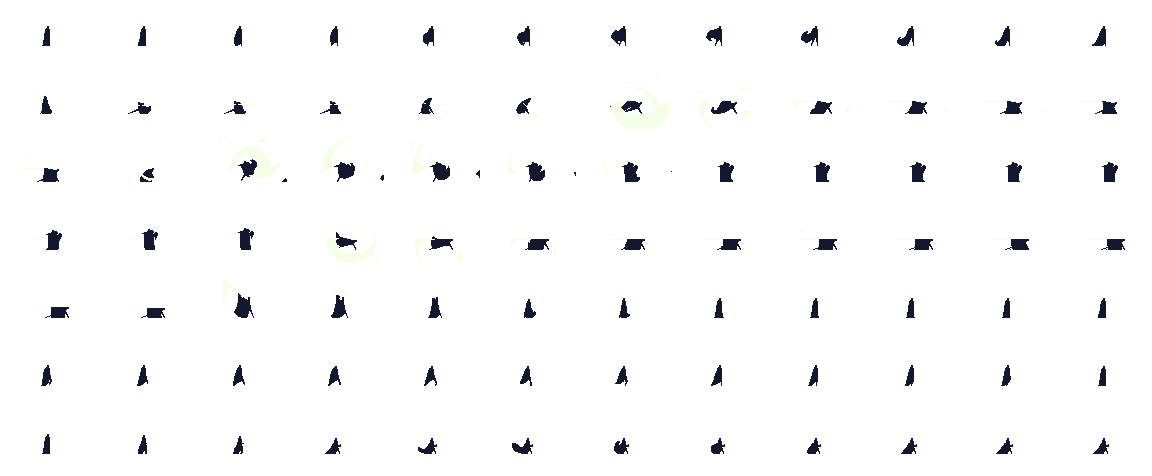
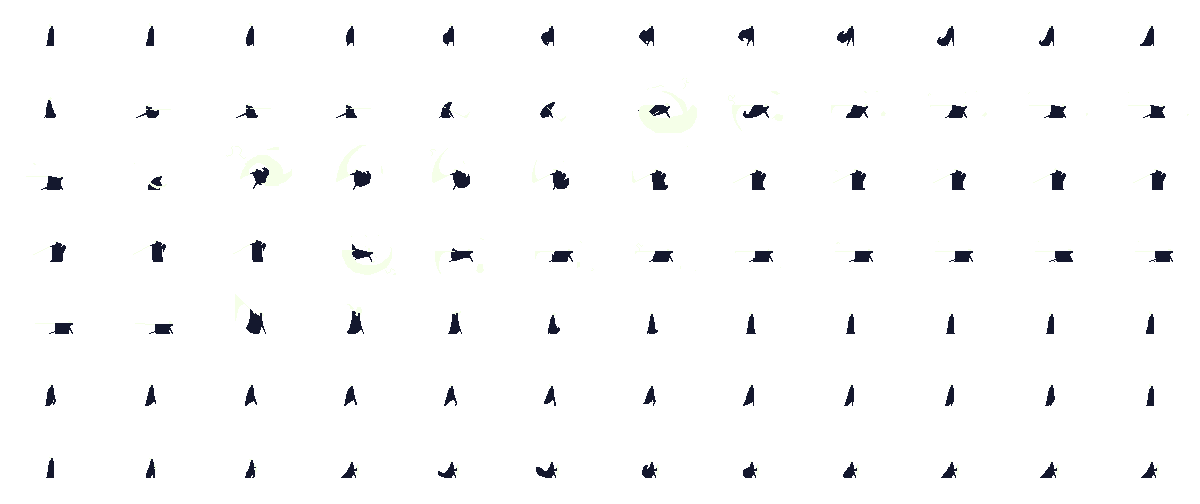
Добавлены текстуры бонусов и их обработка

diff --git a/ConsoleApplication2/Enemy.cpp b/ConsoleApplication2/Enemy.cpp
@@ -1,23 +1,21 @@
 #include "Enemy.h"
 
-Enemy::Enemy() : attackType(0), name(EnemyName::Basic)
+Enemy::Enemy() : name(EnemyName::Basic)
 {
 }
 
 Enemy::Enemy(Texture* texture, Vector2f position, Vector2u imageCount, \
 	float switchTime, EnemyName name, Player* playerPtr, Vector2f size) : \
-	Person(texture, position, size, imageCount, switchTime), attackType(0)
+	Person(texture, position, size, imageCount, switchTime)
 {
 	this->health = HealthMax / 100;
 	this->name = name;
 	this->playerPtr = playerPtr;
 	initEnemy(name);
-
 }
 
 void Enemy::update(float time)
 {
-	updateHealth();
 	playerPtr->getPosition().x > this->getPosition().x ? faceRight = true : faceRight = false;
 	updateAnimation(time / 1.5f, faceRight);
 	body.setPosition(getPosition());
@@ -67,13 +65,15 @@ void Enemy::update(float time)
 	{
 		velocity.x = -personSpeed;
 	}
-	velocity.y += gravity * 10000 * time; // gravity
+	velocity.y += gravity * 10000 * time;
 	sprite.move(velocity * time);
 	changeRanges();
 	if (!life)
 	{
 		attackPower = 0.0f;
 	}
+	updateHealth();
+
 }
 
 void Enemy::updateHealth()
@@ -81,11 +81,8 @@ void Enemy::updateHealth()
 	if (health <= 0 and life)
 	{
 		row = 3;
-		if (getCurrentFrame() == 1)
-		{
-			killing = true;
-		}
-		if (getCurrentFrame() == 0 and killing)
+		killing = true;
+		if (getCurrentFrame() == 7 and killing)
 		{
 			life = false;
 		}
@@ -122,7 +119,7 @@ void Enemy::changeRanges()
 			attackPower = 20.0f;
 			break;
 		default:
-			std::cout << "Unknown enemy -\_/-\n";
+			std::cout << "Unknown enemy\n";
 			break;
 	}
 }
@@ -152,18 +149,22 @@ void Enemy::stoppingRect(const FloatRect& rectangel)
 
 void Enemy::attack()
 {
-	row = 2;
-	if (getCurrentFrame() == 5 and !isDamageTaking)
+	if (!killing)
 	{
-		isDamageTaking = true;
-		if (this->getSprite().getGlobalBounds().intersects(playerPtr->getBody().getGlobalBounds()))
+		row = 2;
+		if (getCurrentFrame() == 5 and !isDamageTaking)
 		{
-			playerPtr->takeDamage(attackPower);
+			isDamageTaking = true;
+			if (this->getAttackRange().intersects(FloatRect(playerPtr->getPosition() - playerPtr->getSize() / 2.0f, \
+				playerPtr->getSize())))
+			{
+				playerPtr->takeDamage(attackPower);
+			}
 		}
-	}
-	if (getCurrentFrame() != 5)
-	{
-		isDamageTaking = false;
+		if (getCurrentFrame() != 5)
+		{
+			isDamageTaking = false;
+		}
 	}
 }
 
@@ -172,55 +173,49 @@ void Enemy::initEnemy(EnemyName name)
 	switch (name) 
 	{
 		case EnemyName::Skeleton:
-			attackType = 0;
 			personSpeed = SkeletonSpeed;
 			gravity = 0.003f;
 			break;
 		case EnemyName::Wizard:
-			attackType = 1;
 			personSpeed = WizardSpeed;
 			gravity = 0.002f;
 			break;
 		case EnemyName::Tank:
-			attackType = 0;
 			personSpeed = TankSpeed;
 			gravity = 0.005f;
 			break;
 		case EnemyName::Dragon:
-			attackType = 1;
 			personSpeed = DragonSpeed;
 			gravity = 0.002f;
 			health = HealthMax * 50 / 100;
 			break;
 		case EnemyName::Ghost:
-			attackType = 1;
 			personSpeed = GhostSpeed;
 			gravity = 0.001f;
 			health = HealthMax * 50 / 100;
 			break;
 		case EnemyName::DarkKnight:
-			attackType = 0;
 			personSpeed = DarkKnightSpeed;
 			gravity = 0.005f;
 			health = HealthMax * 50 / 100;
 			break;
 		default:
-			std::cout << "Unknown enemy -\_/-\n";
+			std::cout << "Unknown enemy\n";
 			break;
 	}
 }
 
 void Enemy::setAttackMoveStopRange(float attackSizeDiff, float moveSizeDiff)
 {
-	attackRange = FloatRect(Vector2f(getPosition().x - getSize().x / 2.0f * attackSizeDiff, \
-		getPosition().y - getSize().y / 2.0f), \
-		Vector2f(getSize().x * attackSizeDiff, getSize().y));
+	attackRange = FloatRect(Vector2f(getPosition().x - getBodySize().x / 2.0f * attackSizeDiff, \
+		getPosition().y - getBodySize().y / 2.0f), \
+		Vector2f(getBodySize().x * attackSizeDiff, getBodySize().y));
 	attackRange.top -= playerPtr->getJumpHeight();
 	attackRange.height += playerPtr->getJumpHeight();
 
-	moveRange = FloatRect(Vector2f(getPosition().x - getSize().x / 2.0f * moveSizeDiff, \
-		getPosition().y - getSize().y / 2.0f), \
-		Vector2f(getSize().x * moveSizeDiff, getSize().y));
+	moveRange = FloatRect(Vector2f(getPosition().x - getBodySize().x / 2.0f * moveSizeDiff, \
+		getPosition().y - getBodySize().y / 2.0f), \
+		Vector2f(getBodySize().x * moveSizeDiff, getBodySize().y));
 	moveRange.top -= playerPtr->getJumpHeight();
 	moveRange.height += playerPtr->getJumpHeight();
 
@@ -238,6 +233,11 @@ FloatRect Enemy::getAttackRange() const
 const EnemyName& Enemy::getName() const
 {
 	return name;
+}
+
+unsigned int Enemy::getRow() const
+{
+	return row;
 }
 
 

diff --git a/ConsoleApplication2/Level.h b/ConsoleApplication2/Level.h
@@ -12,7 +12,6 @@
 #include <unordered_map>
 #include <vector>
 
-enum class ObjectType { Coin, Potion, Bubble, Boot };
 enum class LevelState {Failed, Complete, Passing};
 
 class Level
@@ -30,8 +29,9 @@ public:
 	void checkPortal(Vector2f playerPosition);
 	void checkViewIntersect(View& view, const Vector2u& levelSize);
 	void updatePlatfotmsCollide();
+	void updateBonuses();
 	void updateCoinCollecting();
-	void updateEnemies();
+	void updateEnemies(float time);
 	void updateColliders(View& levelView, Collider& backCollider, Sprite& levelLimitViewSprite, \
 		Sprite& playerAndViewCollideSprite, Collider& playerColliderForView);
 
@@ -50,17 +50,17 @@ public:
 private:
 	void loadTextures(const std::string filePathToCoinTexture, const std::string filePathToBonusTexture, \
 		const std::string filePathToBackGroundTexture);
-	void loadEnemyTextures();
+	template <typename T>
+	void loadInMap(const std::string& path, std::unordered_map<T, Texture>& textures);
 	void initEnemies();
 	void initBackground();
 	void initBonuses();
-	void initCoins();
-	void initPlayer();
 	void initTileMap();
 
 	LevelState levelState;
-	std::vector<Platform> platforms; // size, position
+	std::vector<Platform> platforms;
 	std::vector<Object> coins;
+	std::vector<Object> potions;
 	std::vector<Object> bonuses;
 	std::vector<Enemy> enemies;
 	Object portal;
@@ -81,15 +81,15 @@ private:
 	Vector2u mapSize;
 
 	std::unordered_map<EnemyName, Texture> enemyTextures;
+	std::unordered_map<ObjectType, Texture> bonusTextures;
 	Texture enemyTexture;
-	Texture coinTexture;
 	Texture bonusTexture;
 	Texture backgroundTexture;
-	Texture portalTexture;
 	Texture playerTexture;
 
 	Vector2u levelSize;
 	Vector2f position;
 	int numberOfLevel;
 };
+
 

diff --git a/ConsoleApplication2/Object.cpp b/ConsoleApplication2/Object.cpp
@@ -2,16 +2,20 @@
 
 Object::Object() : Entity()
 {
+	this->objectType = objectType;
 }
 
-Object::Object(Texture* sheetTexture, Vector2f position, Vector2u imageCount, \
-	float switchTime, Vector2f bodySize) : Entity(sheetTexture, position, bodySize, imageCount, switchTime)
+Object::Object(Texture* sheetTexture, Vector2f position, Vector2u imageCount, float switchTime, \
+	ObjectType objectType, Vector2f bodySize) : 
+		Entity(sheetTexture, position, bodySize, imageCount, switchTime)
 {
 	this->sheetTexture = Texture(*sheetTexture);
+	this->objectType = objectType;
 }
 
 void Object::update(float time)
 {
+	updateAnimation(time, true);
 }
 
 void Object::draw(RenderWindow& window)
@@ -30,4 +34,9 @@ void Object::setBonusIconSprite(std::string& path)
 		std::cerr << "Can't load an image";
 	}
 	bonusIconSprite.setTexture(bonusIconTexture);
+}
+
+ObjectType Object::getType() const
+{
+	return objectType;
 }

diff --git a/ConsoleApplication2/Entity.cpp b/ConsoleApplication2/Entity.cpp
@@ -13,7 +13,7 @@ Entity::Entity(Texture* texture, Vector2f position, Vector2f bodySize, Vector2u 
 	Vector2f spriteSheetSize(sheetTexture.getSize());
 	sprite.setOrigin(spriteSheetSize.x / (imageCount.x * 2.0f), spriteSheetSize.y / (imageCount.y * 2.0f));
 	sprite.setTextureRect(IntRect(Vector2i(getPosition()),
-		Vector2i(getSize().x / imageCount.x, getSize().y / imageCount.y)));
+		Vector2i(getBodySize().x / imageCount.x, getBodySize().y / imageCount.y)));
 
 	body.setPosition(position);
 	body.setTextureRect(IntRect(Vector2i(position), Vector2i(bodySize)));
@@ -114,7 +114,7 @@ Vector2f Entity::getPosition() const
 	return sprite.getPosition();
 }
 
-Vector2f Entity::getSize() const
+Vector2f Entity::getBodySize() const
 {
 	return body.getGlobalBounds().getSize();
 }

diff --git a/ConsoleApplication2/Entity.h b/ConsoleApplication2/Entity.h
@@ -11,8 +11,6 @@ public:
 	Entity(Texture* texture, Vector2f position, Vector2f bodySize, Vector2u imageCount, float switchTime);
 
 	virtual void update(float time) = 0;
-	bool updateAnimation(float time, bool faceRight);
-
 	virtual void draw(RenderWindow& window);
 
 	void kill();
@@ -29,12 +27,14 @@ public:
 	IntRect getCurrentRect() const;
 	bool alive() const;
 	Vector2f getPosition() const;
-	Vector2f getSize() const;
+	Vector2f getBodySize() const;
 	Vector2f getSpriteSize() const;
 	Sprite& getSprite();
 	const Texture* getTexture() const;
 
 protected:
+	bool updateAnimation(float time, bool faceRight);
+
 	Animation animation;
 	Texture sheetTexture;
 	Sprite sprite;

diff --git a/ConsoleApplication2/Object.h b/ConsoleApplication2/Object.h
@@ -1,20 +1,24 @@
 #pragma once
 #include "Entity.h"
 
+enum class ObjectType { Coin, Potion, Armor, Bubble, Boot, Portal };
+
 class Object : public Entity
 {
 public:
 	Object();
-	Object(Texture* texture, Vector2f position, Vector2u imageCount, float switchTime, \
+	Object(Texture* texture, Vector2f position, Vector2u imageCount, float switchTime, ObjectType objectType,
 		Vector2f bodySize = Vector2f(16.0f, 16.0f));
 
 	void update(float time);
 	void draw(RenderWindow& window) override;
 	void setBonusIconSprite(std::string& path);
+
+	ObjectType getType() const;
 private:
 	Texture bonusIconTexture;
 	Sprite bonusIconSprite;
-
+	ObjectType objectType;
 };
 
 

diff --git a/ConsoleApplication2/Person.cpp b/ConsoleApplication2/Person.cpp
@@ -6,8 +6,9 @@ Person::Person() : faceRight(true), attackPower(0.0f), energy(0), killing(false)
 }
 
 Person::Person(Texture* texture, Vector2f position, Vector2f size, Vector2u imageCount, float switchTime) : \
-	Entity(texture, position, size, imageCount, switchTime), faceRight(true), attackPower(0.0f), energy(0), \
-	health(HealthMax), canAttack(false), canJump(true), isDamageTaking(false), direction(0.0f, 0.0f)
+	Entity(texture, position, size, imageCount, switchTime), faceRight(true), attackPower(0.0f), \
+	energy(0), killing(false), health(HealthMax), canAttack(false), canJump(true), \
+	isDamageTaking(false), direction(0.0f, 0.0f)
 {
 }
 

diff --git a/ConsoleApplication2/Game.cpp b/ConsoleApplication2/Game.cpp
@@ -107,6 +107,7 @@ void Game::update(float timeStep)
 		}
 		level.updatePlatfotmsCollide();
 		level.updateCoinCollecting();
+		level.updateBonuses();
 		level.updateColliders(levelView, backCollider, levelLimitViewSprite, \
 			playerAndViewCollideSprite, playerAndViewCollider);
 	}

diff --git a/ConsoleApplication2/Player.h b/ConsoleApplication2/Player.h
@@ -22,7 +22,7 @@ public:
 	void removeEnemy(Enemy* enemy);
 	void collectCoin(Object& coin);
 	void applyBonus(Object& bonus);
-	void applyHeart(Object& heart);
+	void applyPotion(Object& heart);
 	void jump(float time);
 	void updateBonuses();
 
